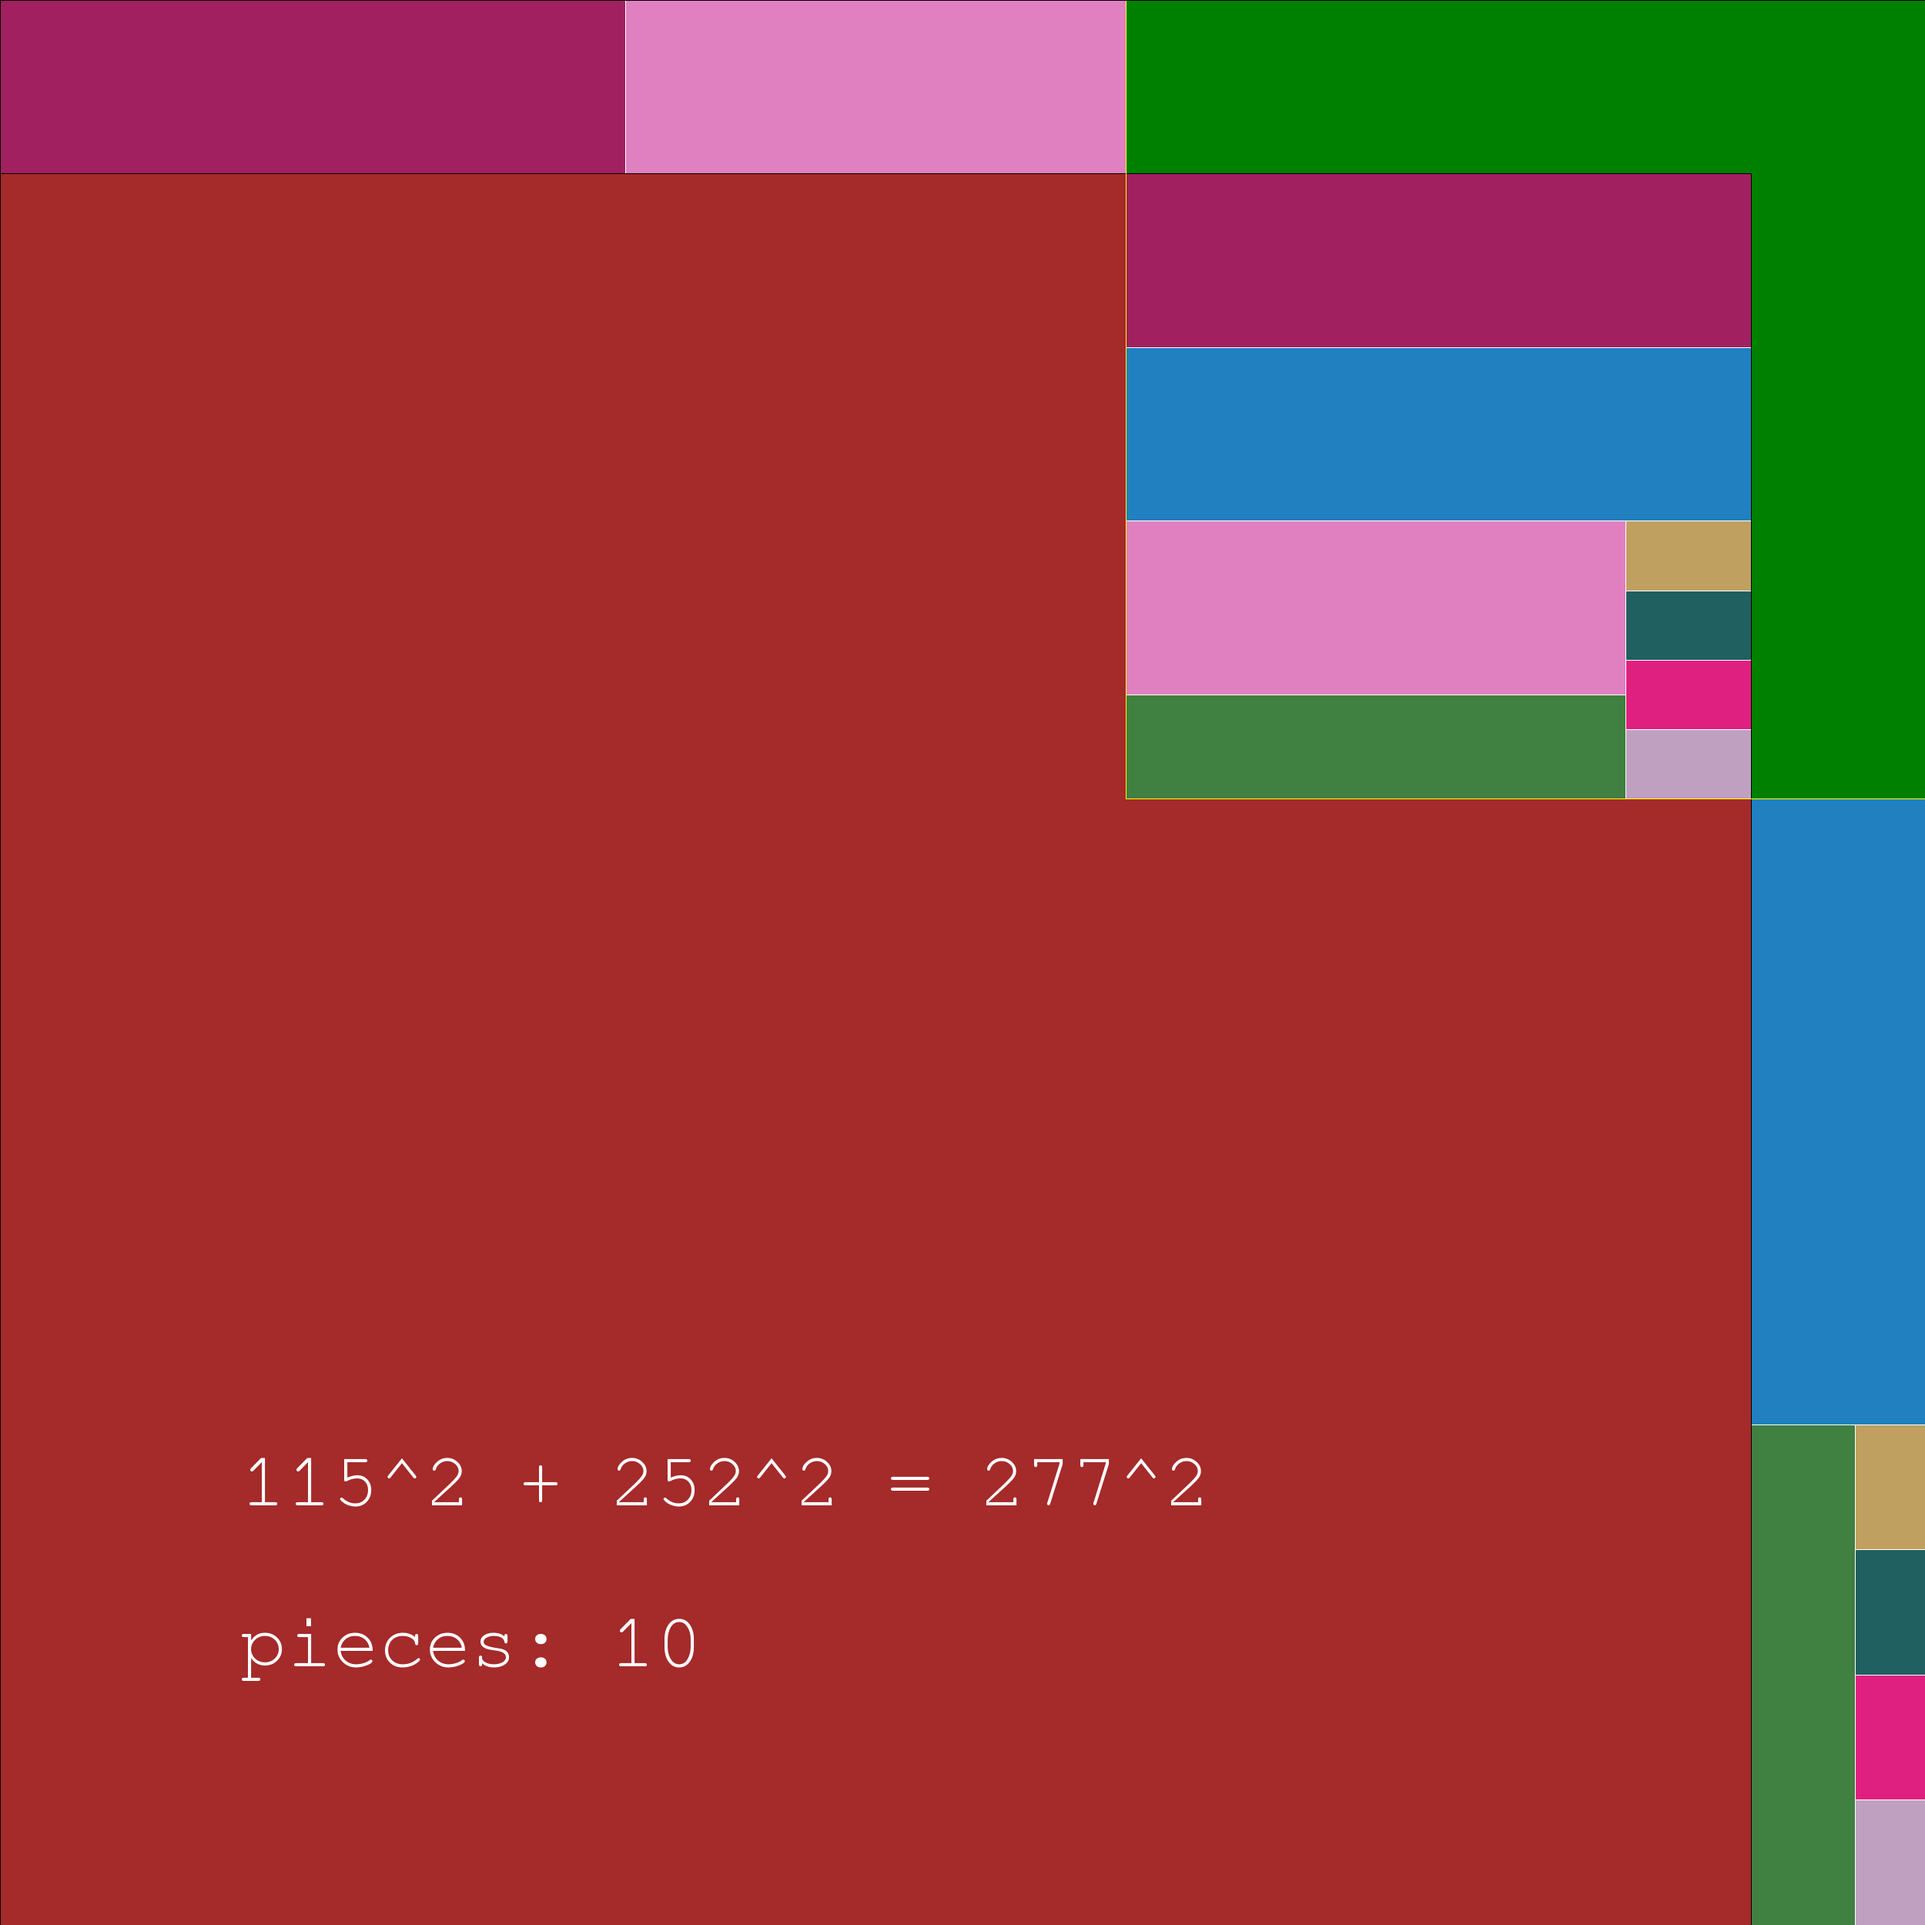
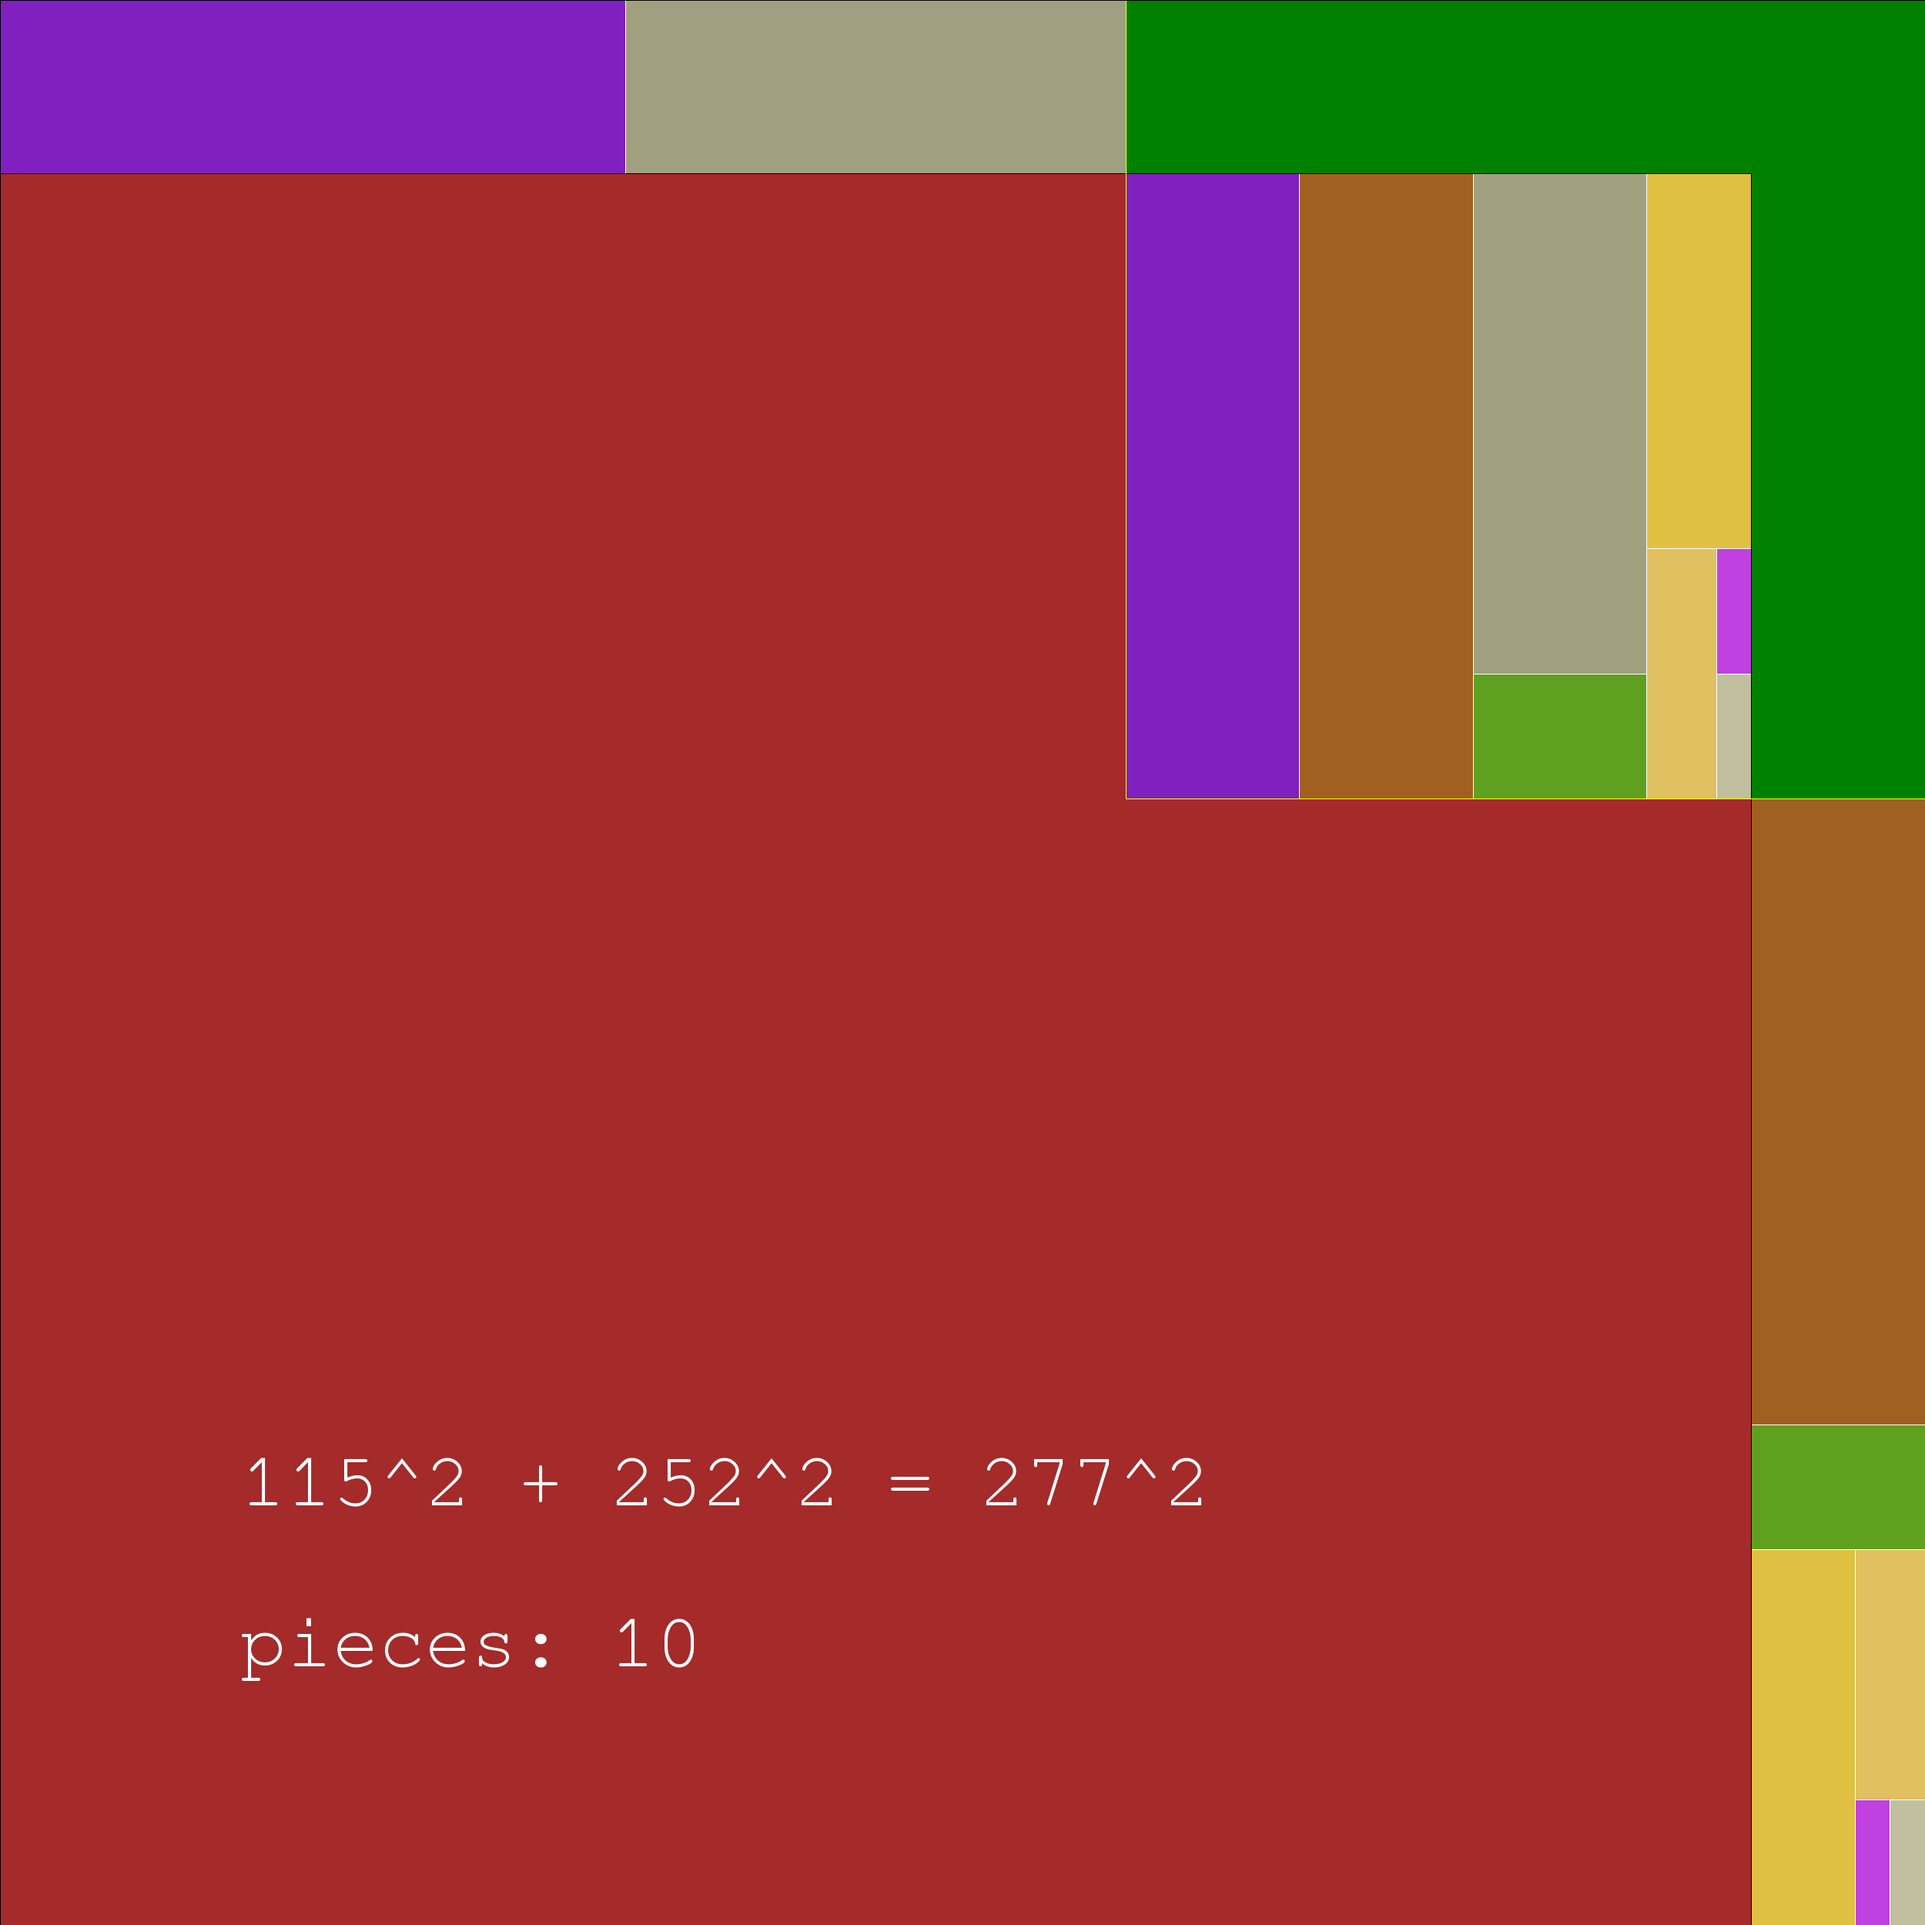
update & fix

Changed region(s): [[0.0, 0.0, 1.0, 1.0]]

diff --git a/calc_first_n_pythagorean_triple_splitup_size.py b/calc_first_n_pythagorean_triple_splitup_size.py
@@ -1,0 +1,51 @@
+import math
+import argparse
+import fractions
+import math
+from triple_calcs import calc, Triple
+
+def pythagorean_triple(s, t):
+    a = s**2-t**2
+    b = 2*s*t
+    c = s**2+t**2
+    return (a, b, c)
+
+def s_t_generator(upper_bound):
+    limit = upper_bound + 1
+    for t in range(1, limit-1):
+        for s in range(t + 1, limit):
+            # Check if s & t are coprime
+            if fractions.gcd(s, t) != 1:
+                continue
+            if s%2 == 1 and t%2 == 1:
+                continue
+            yield (s, t)
+
+parser = argparse.ArgumentParser(description='Calculate minimal partition for pythagorean triple')
+parser.add_argument('x', metavar='x', type=int, nargs='+',
+                                   help='limit')
+
+args = parser.parse_args()
+
+limit = vars(args).get('x')[0]
+count = 0
+triples = []
+for s, t in s_t_generator(100):
+    print(str(s)+", " + str(t) + ": ", end='')
+    triple = pythagorean_triple(s, t)
+    triple = Triple(triple[0], triple[1], triple[2])
+    if triple.y + 1 == triple.z:
+        pass
+    if triple.y + 2 == triple.z:
+        pass
+    count +=1
+    if count > limit:
+        break
+    calc(triple)
+    print(str(triple) +": " + str(len(calc(triple))))
+
+triples = sorted(triples, key=lambda triple: triple[2])
+# print(len(triples))
+for triple in triples:
+    triple = Triple(triple[0] if triple[0] < triple[1] else triple[1], triple[1] if triple[0] < triple[1] else triple[0], triple[2])
+    print(str(triple) +": " + str(len(calc(triple))))

diff --git a/draw_triple_picture.py b/draw_triple_picture.py
@@ -39,13 +39,20 @@ def draw(size, res, x, y, z):
 
         # draw top left corner if anything left to draw there
         if i % 2 == 0 and count < (z-x)*(z-y):
-            dr.rectangle(((up_start[0], up_start[1]),(up_start[0]+long_site, up_start[1]+short_site)),  fill=color, outline='white')
+            potrait = (not abs(up_start[1]+short_site-scale-draw_y) < 0.2) and (not abs(up_start[0]+long_site-scale-draw_x) < 0.2)
+            print(up_start)
+            print(short_site)
+            print(scale-draw_y)
+            print(long_site)
+            print(scale-draw_x)
+            print(potrait)
+            dr.rectangle(((up_start[0], up_start[1]),(up_start[0]+(long_site if potrait else short_site), up_start[1]+(short_site if potrait else long_site))),  fill=color, outline='white')
 
             # calc next (x,y) to start drawing in bottom right corner
-            if 1 + up_start[0] + long_site < (scale-draw_x):
-                up_start = (up_start[0] + long_site, up_start[1] + 0)
+            if 1 + up_start[1] + (short_site if potrait else long_site) < (scale-draw_y):
+                up_start = (up_start[0], up_start[1] + (short_site if potrait else long_site))
             else:
-                up_start = (up_start[0], up_start[1] + short_site)
+                up_start = (up_start[0] + (long_site if potrait else short_site), up_start[1])
             count += res[i].width*res[i].height
         # draw bottom right corner
         else:

diff --git a/triple_calcs.py b/triple_calcs.py
@@ -70,21 +70,32 @@ def build_split_up(rest_of_c, rest_of_d):
             solution.append(second_candidate)
     return solution
 
-
 def calc(triple):
+    x, y, z = triple.x, triple.y, triple.z
+    trip = Triple(x if x < y else y ,y if x < y else x,z)
+    res = _calc(trip)
+    return res
+
+def _calc(triple):
     solution = []
+    solution2 = []
     # append square with area=y^2 (PICTURE: A)
     solution.append(Rect('A in Picture', triple.y, triple.y))
+    solution2.append(Rect('A in Picture', triple.y, triple.y))
     # append rect angle form (PICTURE: B)
     solution.append(Rect('B in Picture', triple.x, triple.z-triple.y))
+    solution2.append(Rect('B in Picture', triple.x, triple.z-triple.y))
 
     # missing pieces(2 equal forms with width m=z-x and height n=z-y (PICTURE: C)) which we have to split up to fill rest_of_d.size n^2 with n = x-(z-y))
     # together with rect angle form with minimal possible amount of pieces
-    c = Rect('dummy', triple.z-triple.x, triple.z-triple.y)
+    c = Rect('dummy', triple.z-triple.y, triple.z-triple.x)
+    c2 = Rect('dummy', triple.z-triple.x, triple.z-triple.y)
     d_length = triple.x-(triple.z-triple.y)
     d = Rect('dummy', d_length, d_length)
 
     # do the minimal split up and append result to solution
     solution += build_split_up(c, d)
-
+    solution2 += build_split_up(c2,d)
+    if len(solution2) < len(solution):
+        solution = solution2
     return solution

diff --git a/pyth_triple.py b/pyth_triple.py
@@ -23,6 +23,14 @@ if pow(x,2) + pow(y,2) != pow(z, 2):
     sys.exit(0)
 trip = Triple(x if x < y else y ,y if x < y else x,z)
 res = calc(trip)
+trip2 = Triple(x if x > y else y ,y if x> y else x,z)
+res2 = calc(trip2)
+print(len(res))
+print(len(res2))
+if len(res2) < len(res):
+    print("FOUNDONE: " + str(trip2))
+    res = res2
+
 
 print("##########################")
 print("# x="+str(x)+", y="+str(y)+", z="+str(z))
